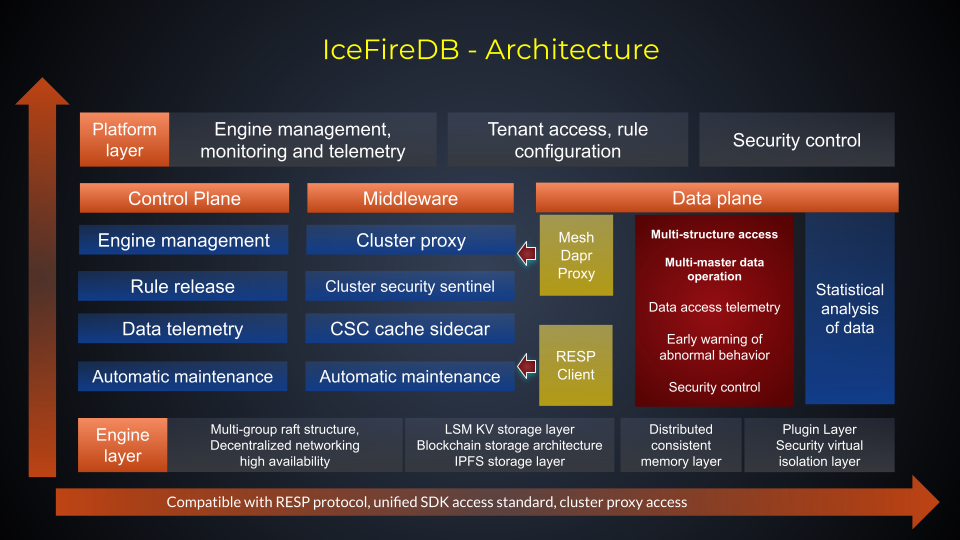
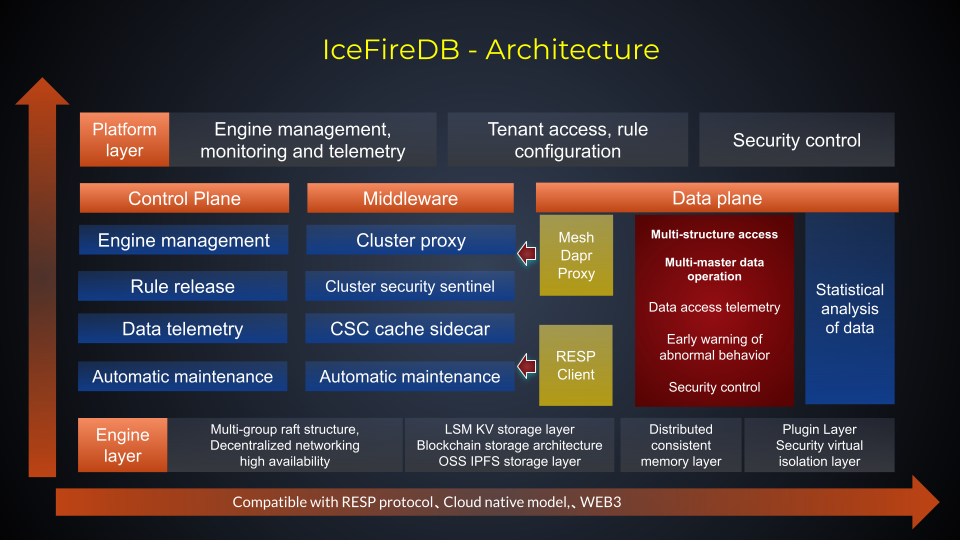
feat(rd):update architecture

diff --git a/README.md b/README.md
@@ -2,7 +2,7 @@
  * @Author: gitsrc
  * @Date: 2020-12-23 13:30:07
  * @LastEditors: gitsrc
- * @LastEditTime: 2021-12-13 14:05:01
+ * @LastEditTime: 2022-01-13 15:18:48
  * @FilePath: /IceFireDB/README.md
 -->
 
@@ -18,14 +18,15 @@
 [![FOSSA Status](https://app.fossa.com/api/projects/git%2Bgithub.com%2FIceFireDB%2FIceFireDB.svg?type=shield)](https://app.fossa.com/projects/git%2Bgithub.com%2FIceFireDB%2FIceFireDB?ref=badge_shield)
 
 
-Decentralized distributed nosql database, Web3 world access point, supports RESP, RAFT, IPFS and blockchain protocols.
+Cloud native decentralized distributed nosql database, Web3 world access point, based on RESP,RAFT,OSS,IPFS and blockchain.
 
 1. High performance
 2. Distributed consistency
 3. Reliable LSM disk storage
 4. Cold and hot mixed data storage structure
 5. Based on IPFS decentralized storage, build a persistent data distributed storage layer.（Upgrading soon）
-6. More advanced cache implementation, faster LSM persistent storage
+6. Support OSS storage engine
+7. More advanced cache implementation, faster LSM persistent storage
 
 # Architecture
 
